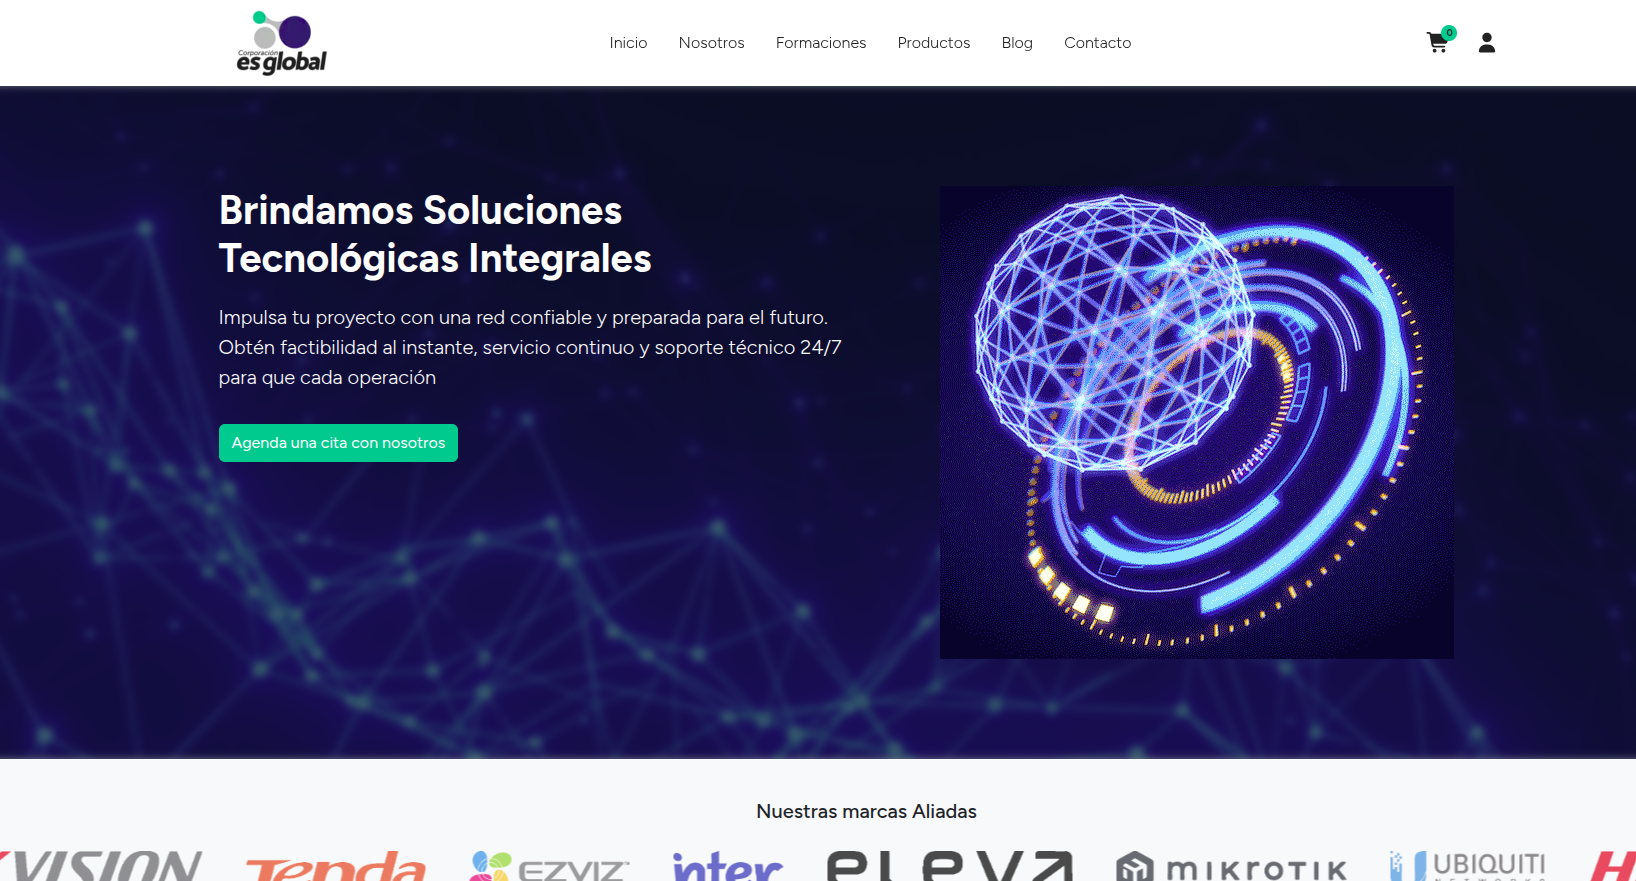
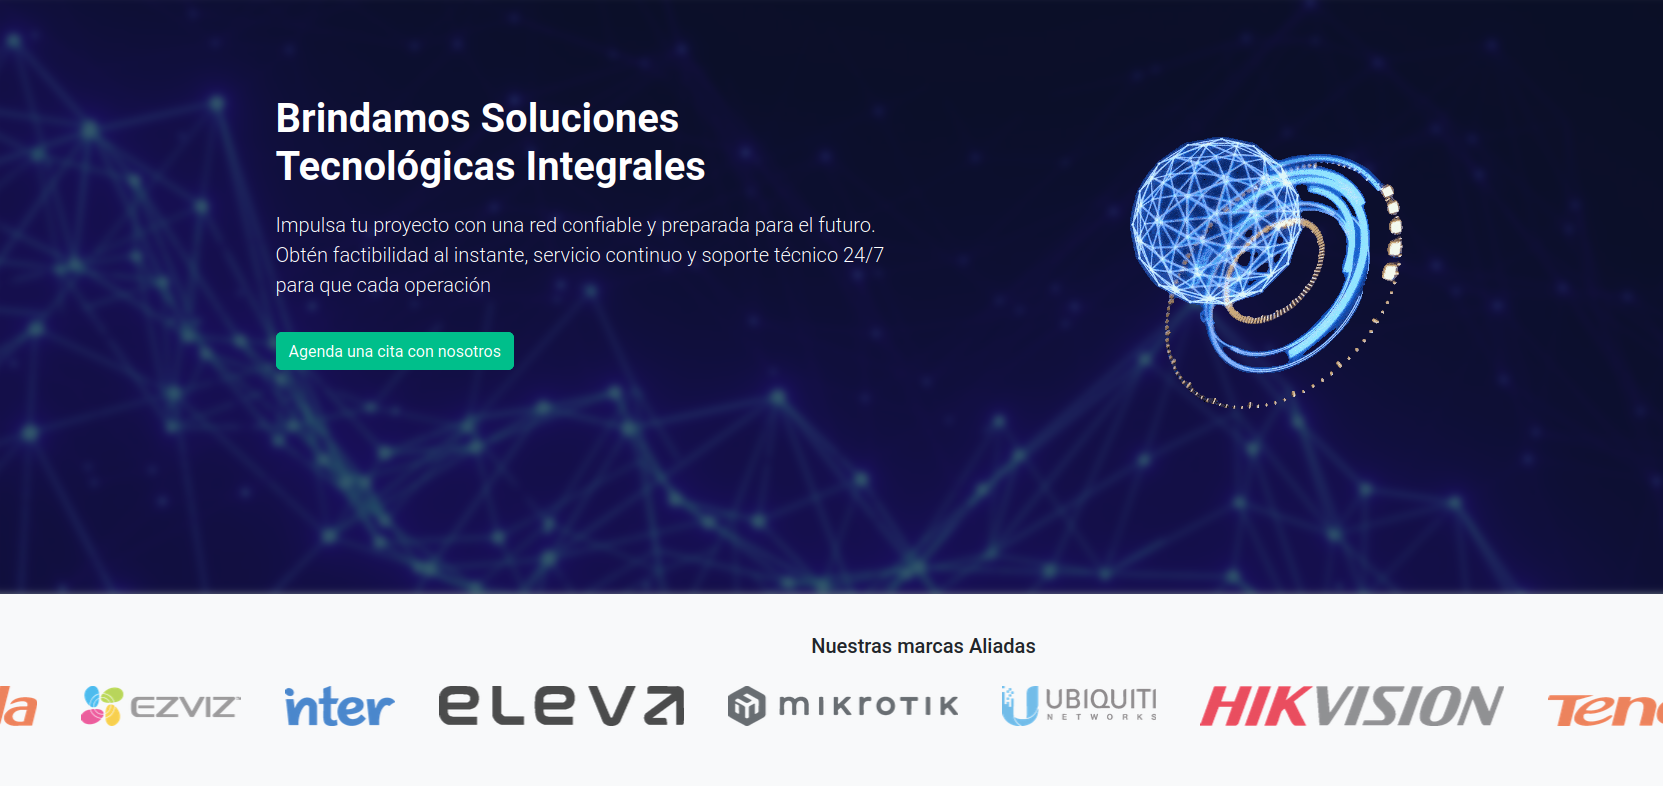
Ajustes Varios

diff --git a/style.css b/style.css
@@ -7,11 +7,11 @@ Author URI: https://gabrielpenaranda.github.ui
 Version: 1.0
 */
 
-/* html,
+html,
 body {
     height: 100%;
 }
- */
+
 body {
     display: flex;
     flex-direction: column;

diff --git a/home.php b/home.php
@@ -23,12 +23,12 @@
                                 <?php endif; ?>
                                 <div class="card-body d-flex flex-column">
                                     <h2 class="card-title">
-                                        <a href="<?php the_permalink(); ?>" class="text-decoration-none">
+                                        <a href="<?php the_permalink(); ?>" class="text-decoration-none text-eg-azul-1">
                                             <?php the_title(); ?>
                                         </a>
                                     </h2>
                                     <p class="card-text flex-grow-1"><?php the_excerpt(); ?></p>
-                                    <a class="btn btn-primary mt-auto" href="<?php the_permalink(); ?>">Read more →</a>
+                                    <a class="btn btn-eg-verde-1 mt-auto" href="<?php the_permalink(); ?>">Leer mas →</a>
                                 </div>
                             </div>
                         </div>

diff --git a/front-page.php b/front-page.php
@@ -13,7 +13,7 @@
                 </div>
             </div>
             <div class="col-md-6 text-center">
-                <img src="<?php echo get_template_directory_uri() ?>/assets/img/globo5.gif" alt="Soluciones Tecnológicas" class="img-fluid">
+                <img src="<?php echo get_template_directory_uri() ?>/assets/img/globo8.gif" alt="Soluciones Tecnológicas" class="img-fluid">
             </div>
         </div>
     </div>
